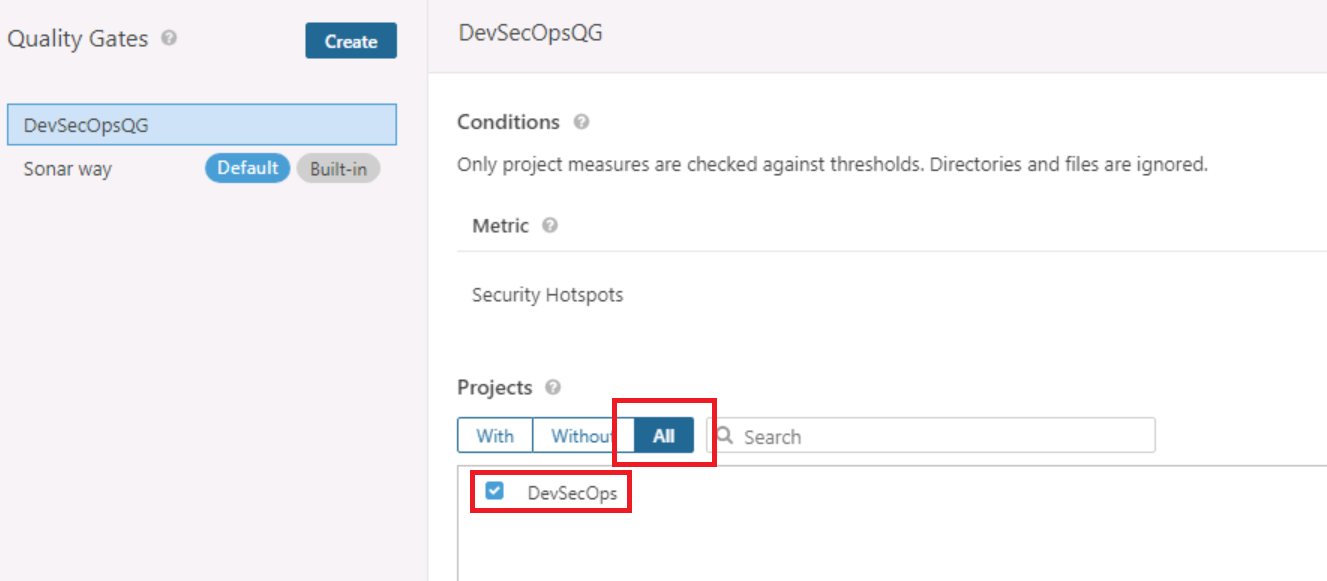
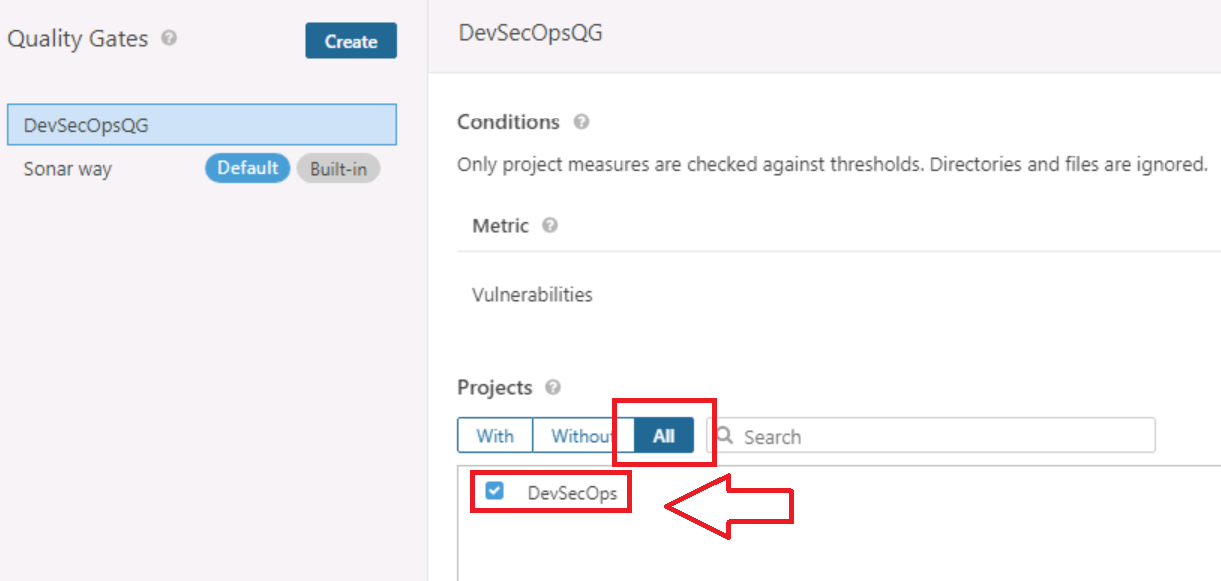
Updating instructions to show SonarQube Gates

diff --git a/Labs/Module 4 -Automating a Secure and Compliant Pipeline.md b/Labs/Module 4 -Automating a Secure and Compliant Pipeline.md
@@ -85,13 +85,13 @@ discover bug or vulnerability early in the process.
 
     ![](./images/Module4-AddSonarConfigurequalitygate.png)
 
-6. Let us add a condition to check for the number of bugs in the code. Click on `Add Condition` drop down, choose the value `Security Hotspots`.
+6. Let us add a condition to check for the number of bugs in the code. Click on `Add Condition` drop down, choose the value `Vulnerabilities`.
  
     > Set the `Operator` value to `is greater than` value to 1 and click on the `Add condition` button.
     
     ![](./images/Module4-AddSonarConfigure04.png)
 
-    > **Note**: This condition means that if the number of Security Hotspots in Sonar Analysis is greater than 0 (zero), then the quality gate will fail and this fails the VSTS build.
+    > **Note**: This condition means that if the number of Vulnerabilities in Sonar Analysis is greater than 1 , then the quality gate will fail and optionally this fails the DevOps build.
 
 7.  To enforce this quality gate for DevSecOps project, click on `All` under `Projects` section and select the project checkbox.
 
